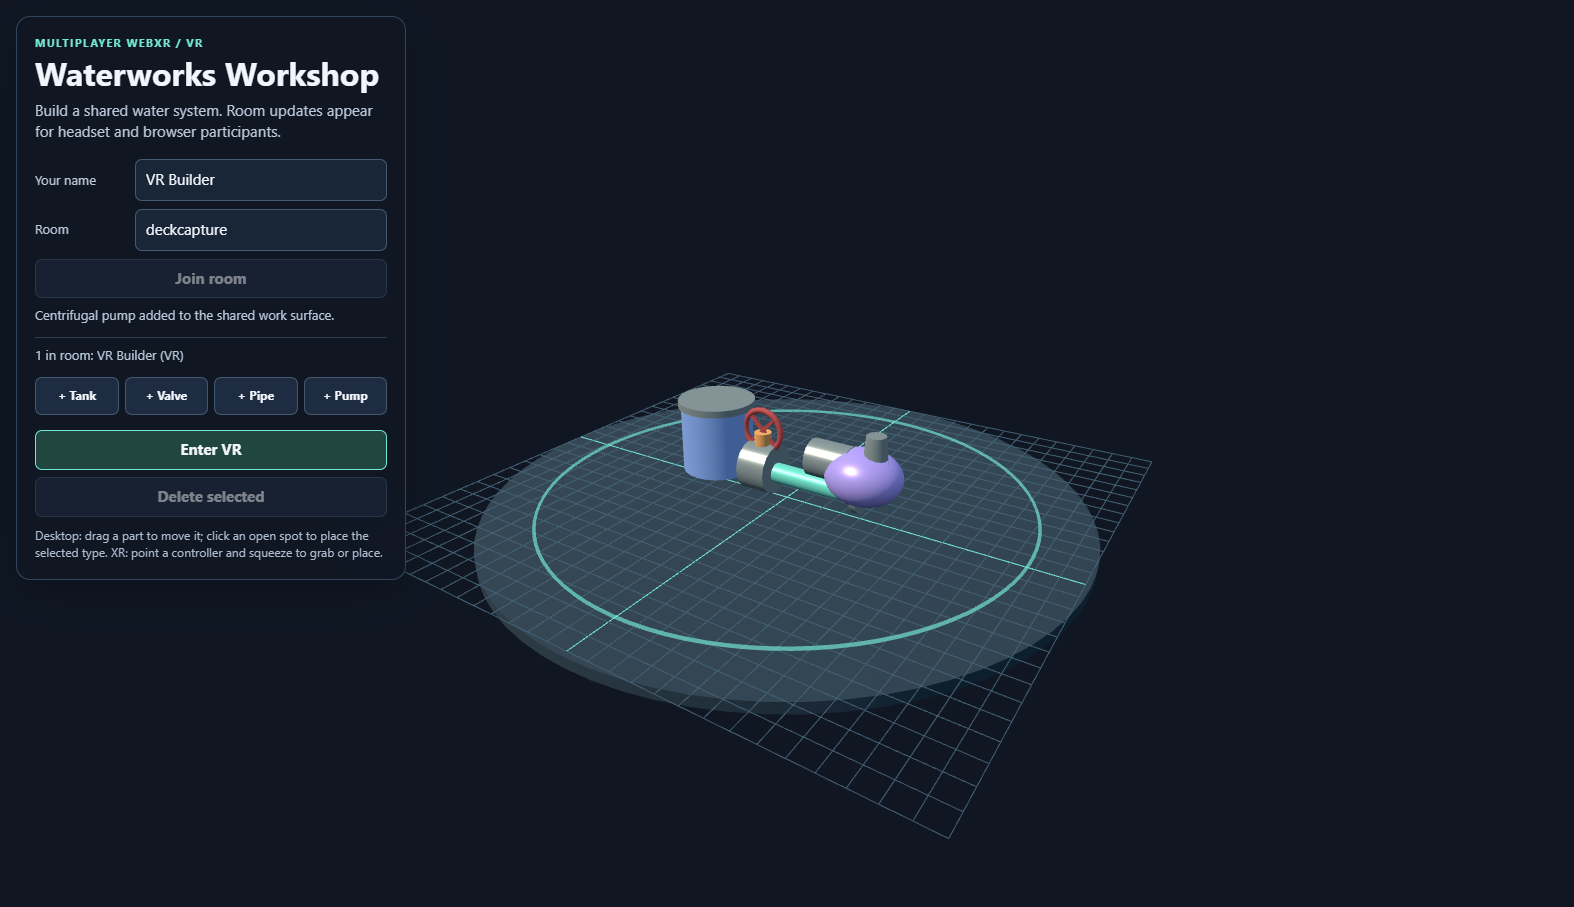
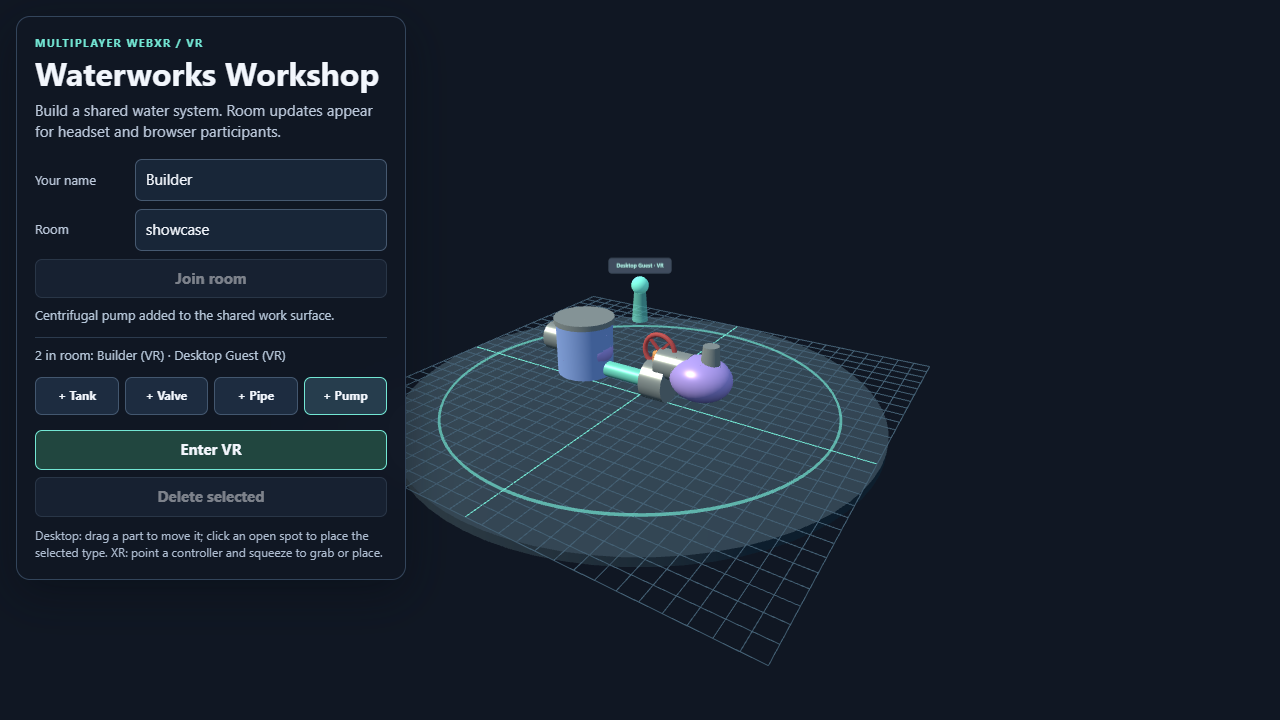
Refactor code structure for improved readability and maintainability

diff --git a/README.md b/README.md
@@ -20,6 +20,8 @@ Small, separate examples that highlight a distinctive capability of each technol
 | `multi-player/ar/` | Three.js + WebXR | Multiplayer shared AR layout with hit-test alignment |
 | `training-simulations/` | Three.js + WebXR | Six short small-business and research practice scenarios |
 
+Each browser-based example's README includes a screenshot of it running. The Unity, Android, and Apple examples need their native toolchains and devices, so they have no screenshots here.
+
 Each folder has its own README with setup instructions, prerequisites, and platform limitations. Unity examples are Unity-ready source folders rather than full Unity projects: copy the scripts into a compatible Unity project and follow that example's setup instructions.
 
 ## Getting started
@@ -47,7 +49,7 @@ npm start
 
 Open `http://localhost:8443/multi-player/vr/` and `http://localhost:8443/multi-player/ar/`; clients who join the same room see and edit shared parts. Network-connected headsets/phones require HTTPS with a trusted certificate. See the [multiplayer setup guide](multi-player/README.md) for detailed run steps, AR alignment, relay behavior, and limitations.
 
-The [run guide slide deck](Run-the-XR-Examples.pptx) walks through the launch steps and learning goal for the original ten examples. The [multiplayer deck](multi-player/Multiplayer-WebXR-Examples.pptx) covers the shared VR and AR experiences. Browse the [multiplayer screenshots](multi-player/screenshots/README.md) for desktop captures and the AR fallback preview; the [original screenshots](screenshots/) cover the other interactive browser scenes.
+The [run guide slide deck](Run-the-XR-Examples.pptx) walks through the launch steps and learning goal for the original ten examples. The [multiplayer deck](multi-player/Multiplayer-WebXR-Examples.pptx) covers the shared VR and AR experiences. Browse the [multiplayer screenshots](multi-player/screenshots/README.md) for desktop captures of both multiplayer examples; the [original screenshots](screenshots/) cover the other interactive browser scenes, and each browser example's folder README embeds its own capture, including the [Practice Lab screenshots](training-simulations/README.md#screenshots).
 
 ## Browser examples
 

diff --git a/multi-player/README.md b/multi-player/README.md
@@ -5,7 +5,11 @@ Two browser-first examples share one lightweight WebSocket relay:
 - [`vr/`](./vr/): a collaborative VR waterworks builder with a desktop fallback.
 - [`ar/`](./ar/): the same shared waterworks layout in immersive AR, with hit-test placement and a calibrated local reference frame.
 
-The [combined slide deck](./Multiplayer-WebXR-Examples.pptx) explains how to run both examples and what they demonstrate. The [screenshot index](./screenshots/README.md) includes captures of the VR desktop fallback and AR desktop preview.
+The [combined slide deck](./Multiplayer-WebXR-Examples.pptx) explains how to run both examples and what they demonstrate. The [screenshot index](./screenshots/README.md) includes captures of the VR and AR desktop fallbacks.
+
+![Multiplayer VR desktop fallback](./screenshots/multiplayer-vr.png)
+
+![Multiplayer AR desktop fallback](./screenshots/multiplayer-ar.png)
 
 The examples follow the interaction pattern in [Week-08-WebXR-WaterWorks](https://github.com/jcallinan/CIST1423-Fall2026-Examples/tree/master/Week-08-WebXR-WaterWorks): participants join a named room, see the same shared parts and other participants, and only one person can hold a part at a time. Both clients use the same room and server, so a VR builder and an AR builder can collaborate with laptop/desktop browser builders at the same time.
 
@@ -82,7 +86,7 @@ This requires both devices to agree on the same physical points and remain in th
 
 `npm test` runs six tests covering mixed VR/AR WebSocket clients, room snapshots and isolation, exclusive object ownership, disconnect cleanup, invalid room rejection/transforms, and the HTTP example routes/path traversal guard. The headset session and AR camera/hit-test itself still need supported physical hardware for end-to-end testing.
 
-The AR screenshot is explicitly a desktop fallback capture with an annotated view of the live AR page's scene. It is not a recording of camera passthrough or a physical AR session.
+The AR screenshot is explicitly a desktop fallback capture of the live AR page's scene. It is not a recording of camera passthrough or a physical AR session.
 
 ## Project layout
 

diff --git a/training-simulations/README.md b/training-simulations/README.md
@@ -47,3 +47,25 @@ The tests verify that there are exactly three scenarios in each category and tha
 This is a non-certified learning prototype—not an employer's safety policy, professional qualification, research-ethics approval, laboratory procedure, or substitute for an approved study protocol. Employers and research teams should review and adapt examples to their jurisdiction, workplace, institution, and current procedures. The research examples teach process habits; they do not collect real participants' data or handle real samples.
 
 The application has no login, analytics, backend, persistence, or export. Names and scores are kept in page memory only. Only a compatible WebXR browser, secure context, VR runtime, and headset can start immersive VR; headset testing has not been performed as part of this example.
+
+## Screenshots
+
+All captures are from the running example in a desktop browser at the default (non-headset) view. WebXR VR was unavailable in the capture environment, so the page shows **VR NOT SUPPORTED**; these are not headset recordings.
+
+| Step | Capture |
+|---|---|
+| Welcome and name entry | ![Welcome screen](screenshots/01-welcome.png) |
+| Scenario catalog | ![Six-scenario catalog](screenshots/02-catalog.png) |
+| Decision feedback | ![Feedback after a choice](screenshots/04-feedback.png) |
+| Scenario complete | ![Completion and score](screenshots/05-complete.png) |
+
+### The six scenarios
+
+| Scenario | Capture |
+|---|---|
+| Welcome a walk-in | ![Welcome a walk-in](screenshots/03-scenario-1-welcome-a-walk-in.png) |
+| Make a safe work area | ![Make a safe work area](screenshots/03-scenario-2-make-a-safe-work-area.png) |
+| Check an incoming delivery | ![Check an incoming delivery](screenshots/03-scenario-3-check-an-incoming-delivery.png) |
+| Invite a participant | ![Invite a participant](screenshots/03-scenario-4-invite-a-participant.png) |
+| Track a research sample | ![Track a research sample](screenshots/03-scenario-5-track-a-research-sample.png) |
+| Record a field observation | ![Record a field observation](screenshots/03-scenario-6-record-a-field-observation.png) |

diff --git a/multi-player/ar/README.md b/multi-player/ar/README.md
@@ -41,4 +41,10 @@ WebXR `immersive-ar` and hit testing require a compatible mobile browser, device
 
 See the [parent README](../README.md) for the server, room model, test coverage, secure hosting, and project references.
 
-See the [AR screenshot](../screenshots/multiplayer-ar.png) for an annotated desktop fallback preview, and the [combined slide deck](../Multiplayer-WebXR-Examples.pptx) for the shared setup and AR calibration walkthrough. The screenshot is not an immersive camera-passthrough capture.
+See the [AR screenshot](../screenshots/multiplayer-ar.png) for a desktop fallback capture, and the [combined slide deck](../Multiplayer-WebXR-Examples.pptx) for the shared setup and AR calibration walkthrough. The screenshot is not an immersive camera-passthrough capture.
+
+## Screenshot
+
+![Multiplayer AR Waterworks Workshop with the Align origin & enter AR button, roster of two participants, and shared parts on the board](../screenshots/multiplayer-ar.png)
+
+Captured from two desktop browser clients in the same room, showing the AR page's shared board, roster, and a remote participant marker. It is the desktop fallback, not camera passthrough or a physical AR session.

diff --git a/multi-player/screenshots/README.md b/multi-player/screenshots/README.md
@@ -4,7 +4,11 @@ These captures show the running examples in desktop browser fallback mode. They 
 
 | Example | Capture | Notes |
 |---|---|---|
-| Multiplayer VR | [multiplayer-vr.png](./multiplayer-vr.png) | Desktop browser scene with the VR example controls and procedural parts. |
-| Multiplayer AR | [multiplayer-ar.png](./multiplayer-ar.png) | Annotated capture of the AR page and live scene. Physical camera passthrough is not shown. |
+| Multiplayer VR | [multiplayer-vr.png](./multiplayer-vr.png) | Desktop capture with two participants in one room and the shared procedural parts. |
+| Multiplayer AR | [multiplayer-ar.png](./multiplayer-ar.png) | Desktop capture of the AR page with two participants and shared parts. Physical camera passthrough is not shown. |
 
 For actual immersive sessions, use a supported WebXR device and a trusted HTTPS origin. The AR example additionally requires both participants to calibrate the same physical origin and +Z direction; see the [AR guide](../ar/README.md#calibrate-a-shared-physical-board).
+
+![Multiplayer VR](./multiplayer-vr.png)
+
+![Multiplayer AR](./multiplayer-ar.png)

diff --git a/multi-player/vr/README.md b/multi-player/vr/README.md
@@ -44,3 +44,9 @@ WebXR availability depends on the browser, headset, runtime, operating system, a
 See the parent [README](../README.md) for the shared relay protocol, room behavior, tests, security scope, and references.
 
 The [combined slide deck](../Multiplayer-WebXR-Examples.pptx) walks through both modes. The [VR screenshot](../screenshots/multiplayer-vr.png) shows the desktop fallback with shared parts; it is not a headset capture.
+
+## Screenshot
+
+![Multiplayer VR Waterworks Workshop with two participants in room "showcase" and a tank, pipe, valve, and pumps on the shared work surface](../screenshots/multiplayer-vr.png)
+
+Captured from two desktop browser clients joined to the same room, one of whom added a tank, pipe, valve, and pump. This is the desktop fallback; it is not a headset recording.

diff --git a/threejs/README.md b/threejs/README.md
@@ -24,3 +24,9 @@ From this folder, run `python -m http.server 8002` and open <http://localhost:80
 - [Three.js documentation](https://threejs.org/docs/)
 - [Three.js WebXR guide](https://threejs.org/manual/#en/webxr-basics)
 - [Three.js repository](https://github.com/mrdoob/three.js)
+
+## Screenshot
+
+![Prism Bloom running in a desktop browser with the Change prism glow button and ENTER VR control](screenshots/threejs-prism-bloom.png)
+
+Captured from the running example in a desktop browser after pressing **Change prism glow**. Immersive VR was not available in the capture environment, so this is the desktop fallback, not a headset recording.

diff --git a/webxr/README.md b/webxr/README.md
@@ -22,3 +22,9 @@ From the repository root, run `python -m http.server 8000`, then open <http://lo
 
 - [WebXR Device API specification](https://immersive-web.github.io/webxr/)
 - [MDN: WebXR Device API](https://developer.mozilla.org/docs/Web/API/WebXR_Device_API)
+
+## Screenshot
+
+![WebXR color field preview with the Enter VR button, speed slider, and status message](screenshots/webxr-color-field.png)
+
+Captured from the running example in a desktop browser. The immersive session was not available in the capture environment, so this shows the preview and unsupported-browser state, not a headset recording.

diff --git a/a-frame/README.md b/a-frame/README.md
@@ -24,3 +24,9 @@ From this folder, run `python -m http.server 8001` and open <http://localhost:80
 - [A-Frame documentation](https://aframe.io/docs/1.6.0/introduction/)
 - [A-Frame repository](https://github.com/aframevr/aframe)
 - [WebXR Device API](https://developer.mozilla.org/docs/Web/API/WebXR_Device_API)
+
+## Screenshot
+
+![Orbit Garden running in a desktop browser: floating lanterns above a dark circular ground](screenshots/a-frame-orbit-garden.png)
+
+Captured from the running example in a desktop browser. The headset icon starts a VR session where supported; this image is not a headset recording.

diff --git a/babylonjs/README.md b/babylonjs/README.md
@@ -24,3 +24,9 @@ From this folder, run `python -m http.server 8003` and open <http://localhost:80
 - [Babylon.js documentation](https://doc.babylonjs.com/)
 - [Babylon.js WebXR documentation](https://doc.babylonjs.com/features/featuresDeepDive/webXR/)
 - [Babylon.js repository](https://github.com/BabylonJS/Babylon.js)
+
+## Screenshot
+
+![Luminous Totem running in a desktop browser with orbiting beacons](screenshots/babylonjs-luminous-totem.png)
+
+Captured from the running example in a desktop browser after pressing **Change totem hue**. This is the desktop fallback, not a headset recording.
